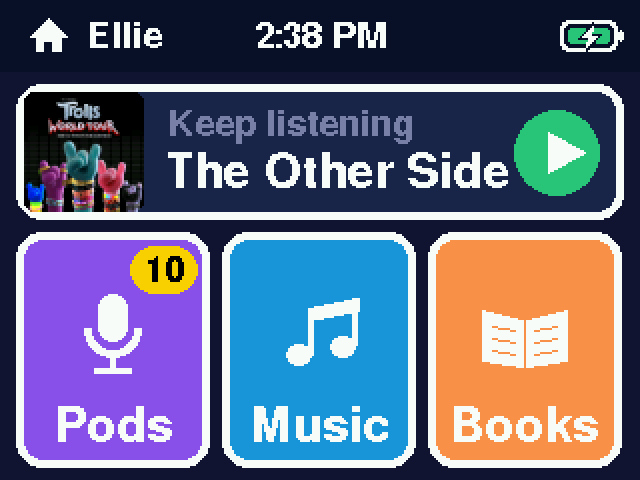
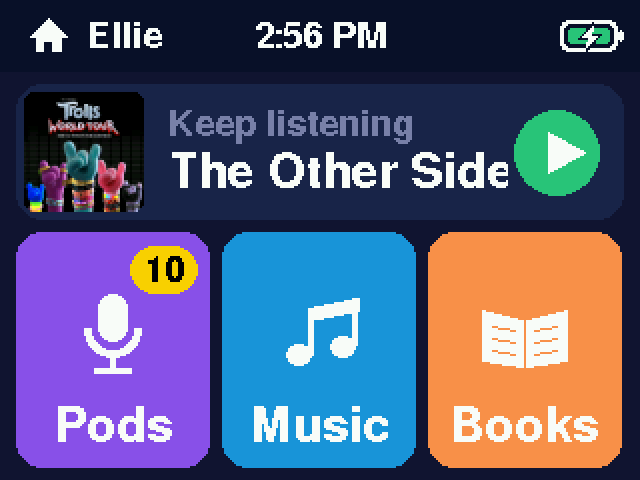
Home's cards without the white edge

Changed region(s): [[0.0, 0.1562, 1.0, 1.0], [0.25, 0.3125, 0.7812, 0.4062], [0.4375, 0.0312, 0.5, 0.0938]]

diff --git a/CHANGELOG.md b/CHANGELOG.md
@@ -23,6 +23,7 @@ e.g. `0.3.0+6.cb61af8`.
   mark in WiFi mode) and the battery: white, red under 20%, green with a bolt while
   charging.
 - The top bar's words (the name, the time, the shelf) are in the smaller font.
+- Home's cards are flat (no white edge).
 - Albums are A to Z again (the carousel goes round, so order matters less), and a
   shelf opens on the album opened or played most recently there. Opening an album's
   songs now counts as recent, not only playing it.
